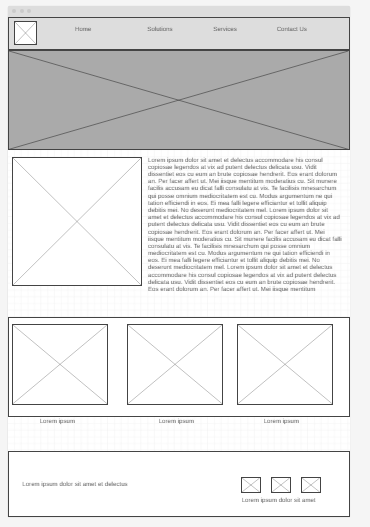
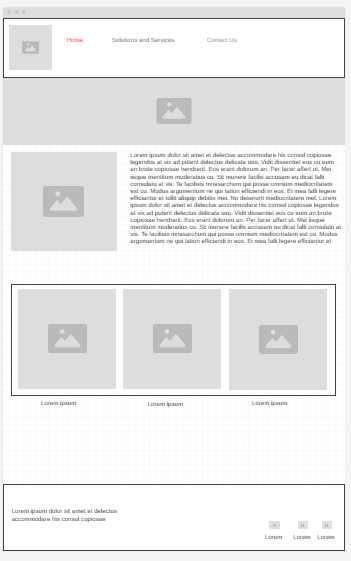
add

diff --git a/personal/site-plan.html b/personal/site-plan.html
@@ -224,13 +224,13 @@
       <p>         
         [Any additional details about page 2 that the wireframe does not make clear]
       </p>
-      <img src="#" alt="page 2 wireframe">
+      <img src="./images/Solutions and Services.png" alt="page 2 wireframe">
 
       <h3>Contact Us</h3>
       <p>         
         [Any additional details about page 3 that the wireframe does not make clear]
       </p>
-      <img src="#" alt="page 3 wireframe">
+      <img src="./images/contact_child .png" alt="page 3 wireframe">
     </main>
   </body>
 
